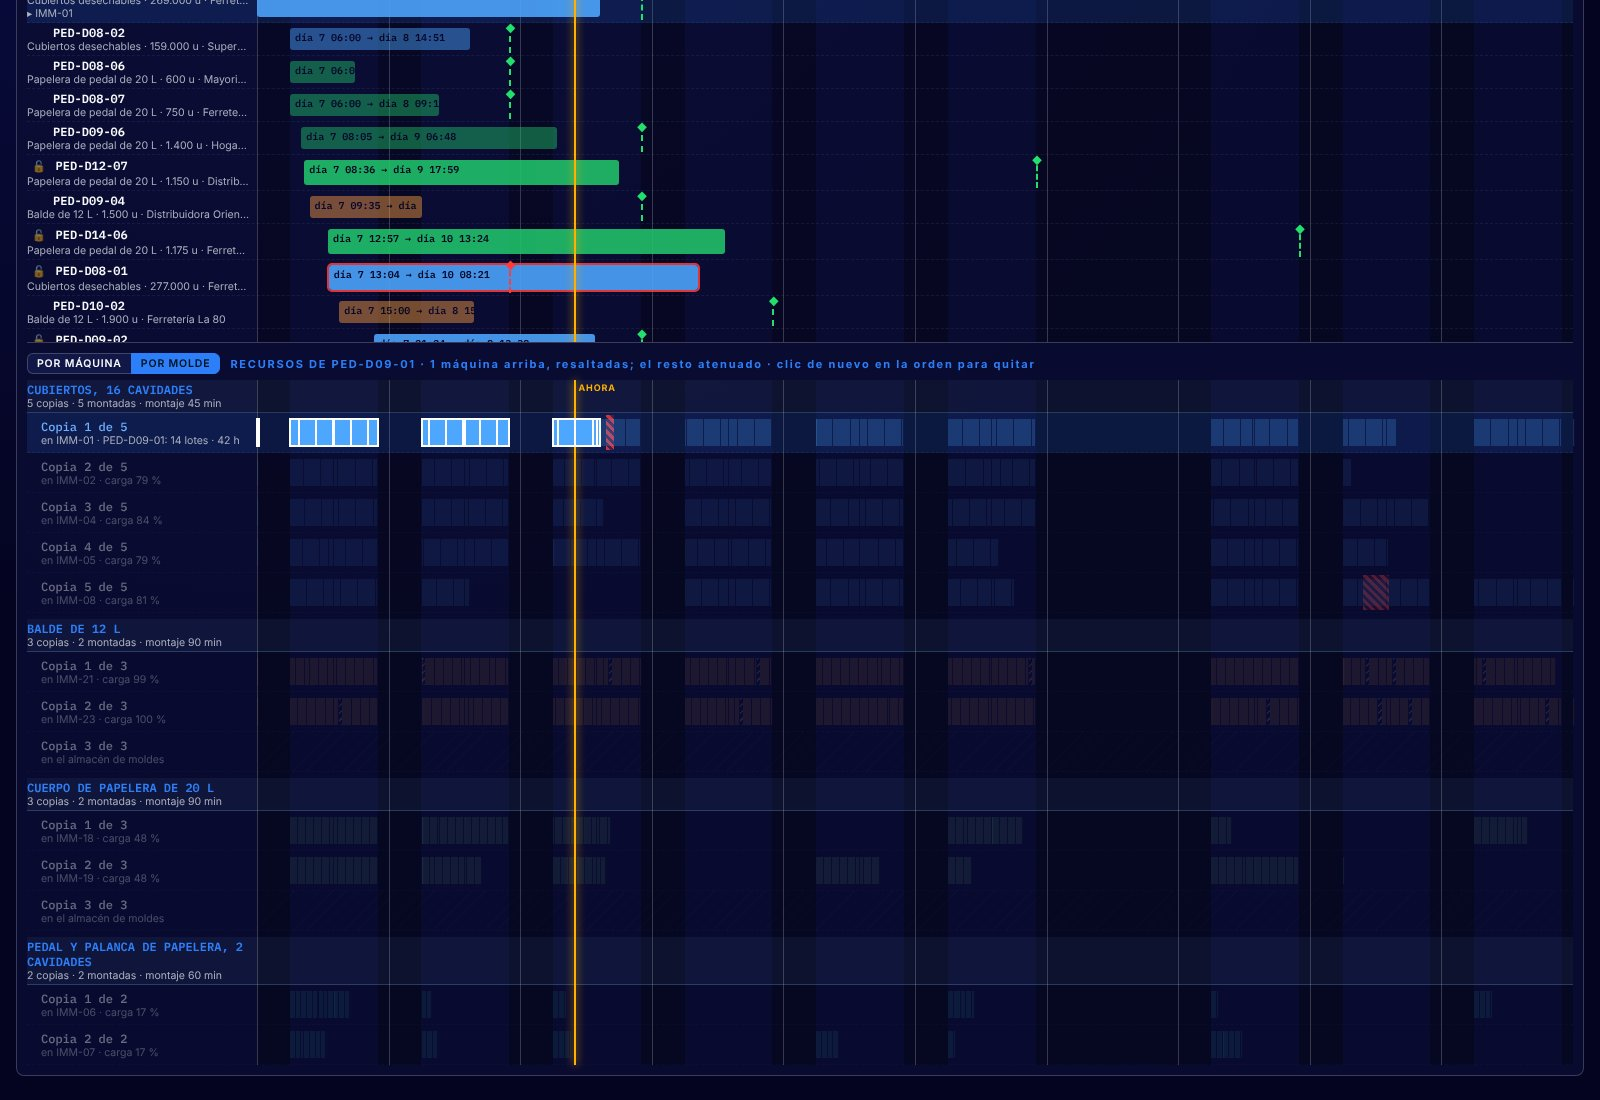
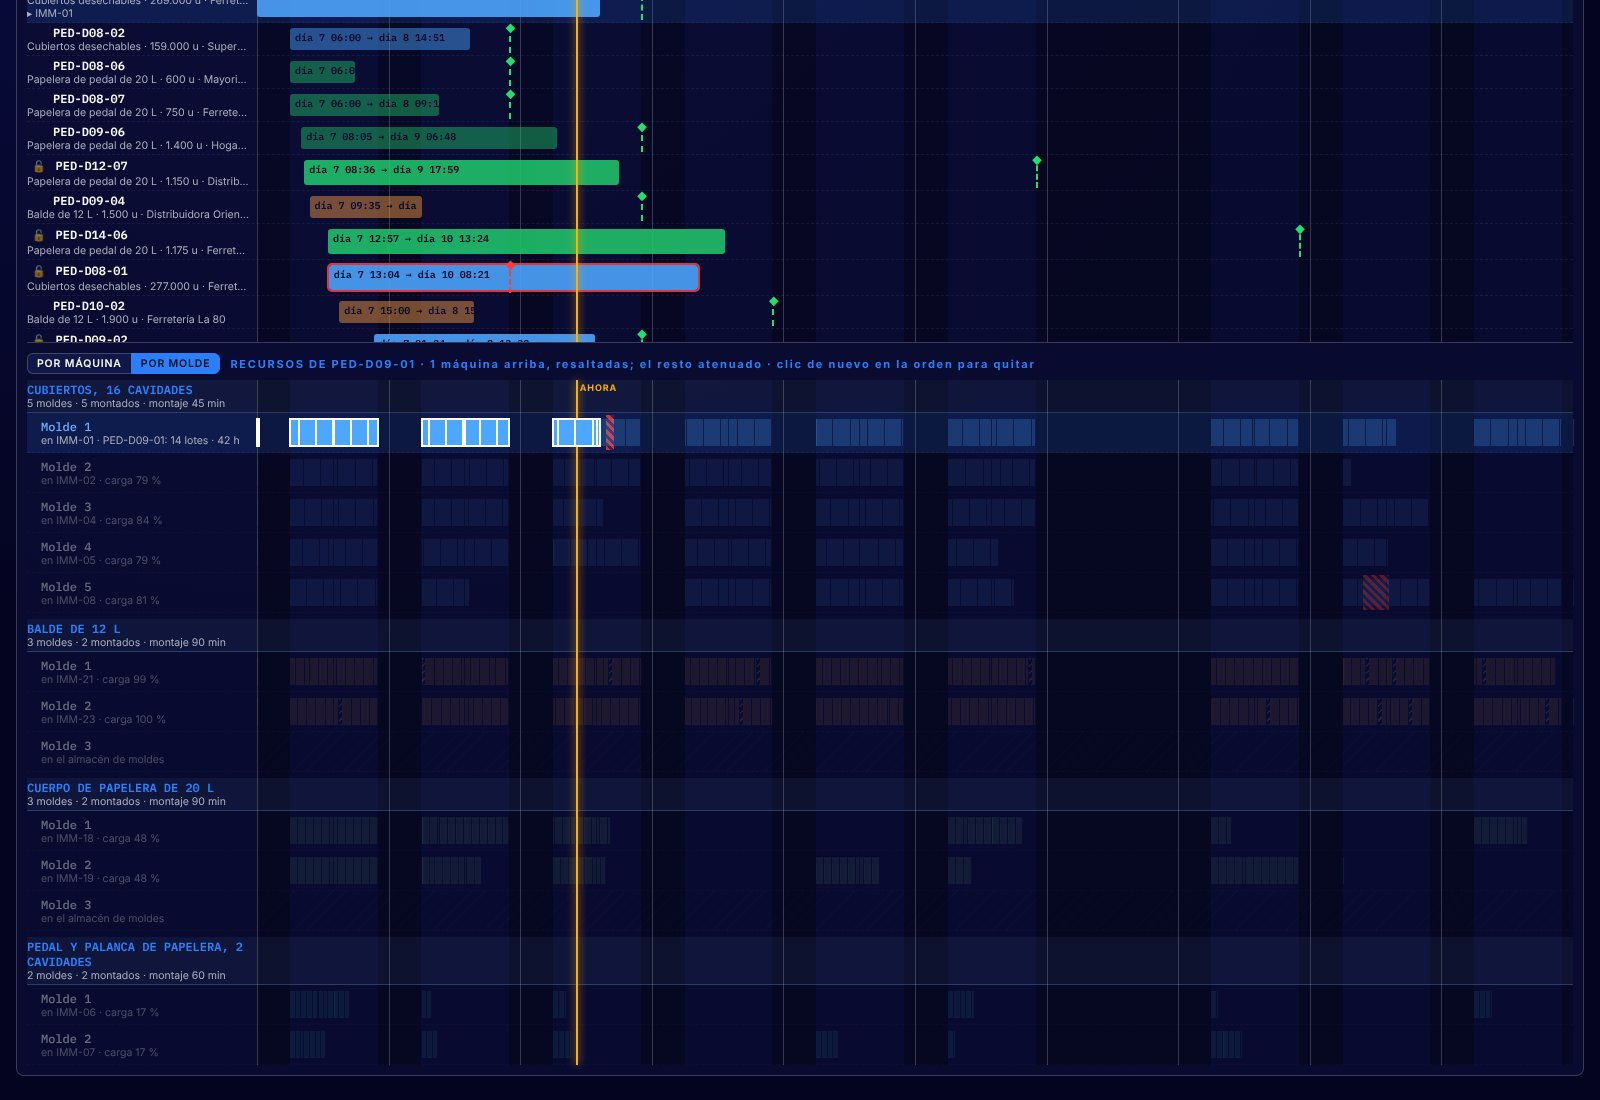
Gantt por molde: moldes numerados con numeración fija
Cada molde físico se llama Molde 1, Molde 2... (antes "copia N de M"). La
numeración no cambia al seleccionar una orden: primero las inyectoras del
montaje inicial y luego las que montó Fractal.

Claude-Session: https://claude.ai/code/session_01V6M9Lswh8d11LdRuHxe9CX

diff --git a/apps/gallery/src/aps-page.ts b/apps/gallery/src/aps-page.ts
@@ -435,7 +435,7 @@ function renderGantt(p: ProductionPlan): void {
       const detail = u ? `${info ? `${info} · ` : ""}${esc(selected!)}: ${u.lots} ${u.lots === 1 ? "lote" : "lotes"} · ${nf(u.h, 1)} h` : `${info ?? esc(machineProducts(m))} · carga ${load} %`;
       return `<div class="g-row res${cls}${rowCls}" data-machine="${esc(m)}"><div class="g-label"><b>${esc(title)}</b><small>${detail}</small></div><div class="g-track">${downs}${bars}</div></div>`;
   };
-  // Por molde: dónde está cada copia en este escenario (lo montado, con los cambios de Fractal) y el resto en el almacén.
+  // Por molde: dónde está cada molde físico (numerados) en este escenario (lo montado, con los cambios de Fractal) y el resto en el almacén.
   const where: Record<string, string> = { ...model.mounted };
   for (const [m, t] of Object.entries(p.molds ?? {})) t ? (where[m] = t) : delete where[m];
   const moldRows = model.molds
@@ -443,12 +443,13 @@ function renderGantt(p: ProductionPlan): void {
       const short = t.name.replace(/^Molde del? /i, "");
       const at = Object.keys(where)
         .filter((m) => where[m] === t.id)
-        .sort((a, b) => Number(usedBy.has(b)) - Number(usedBy.has(a)) || a.localeCompare(b));
+        // Numeración fija: primero las inyectoras del montaje inicial, luego las que Fractal montó.
+        .sort((a, b) => Number(model.mounted[a] !== t.id) - Number(model.mounted[b] !== t.id) || a.localeCompare(b));
       const n = Math.max(t.copies, at.length);
-      const head = `<div class="g-row res g-mold-head"><div class="g-label"><b>${esc(short.toUpperCase())}</b><small>${n} ${n === 1 ? "copia" : "copias"} · ${at.length} montada${at.length === 1 ? "" : "s"} · montaje ${nf(t.changeMin)} min</small></div><div class="g-track"></div></div>`;
+      const head = `<div class="g-row res g-mold-head"><div class="g-label"><b>${esc(short.toUpperCase())}</b><small>${n} ${n === 1 ? "molde" : "moldes"} · ${at.length} montado${at.length === 1 ? "" : "s"} · montaje ${nf(t.changeMin)} min</small></div><div class="g-track"></div></div>`;
       const copies = Array.from({ length: n }, (_, i) => {
         const m = at[i];
-        const title = `Copia ${i + 1} de ${n}`;
+        const title = `Molde ${i + 1}`;
         if (!m) return `<div class="g-row res g-copy g-mold-idle${selected ? " unused" : ""}"><div class="g-label"><b>${esc(title)}</b><small>en el almacén de moldes</small></div><div class="g-track"></div></div>`;
         const moved = p.molds?.[m] === t.id ? " (Fractal)" : "";
         return resourceRow(m, title, `en ${esc(machineLabel(m))}${moved}`, " g-copy");
@@ -477,7 +478,7 @@ function renderGantt(p: ProductionPlan): void {
       <div class="g-section-title">ÓRDENES DE PRODUCCIÓN</div>
       <div class="g-head"><div class="g-label"></div><div class="g-track">${head}</div></div>
       <div class="g-scroll"><div class="g-body g-orders"><div class="g-gridlayer"><div class="g-label"></div><div class="g-track">${grid}${nowLine}</div></div>${orderRows || '<p class="dim small">Sin órdenes en estos días.</p>'}</div></div>
-      <div class="g-section-title g-res-title"><span class="g-resview"><button id="g-by-machine"${resView === "maquina" ? ' class="on"' : ""}>POR MÁQUINA</button><button id="g-by-mold"${resView === "molde" ? ' class="on"' : ""} title="Cada copia de un molde es una fila: una copia solo está en una inyectora a la vez">POR MOLDE</button></span>${selected ? `RECURSOS DE ${esc(selected)} · ${usedBy.size} ${usedBy.size === 1 ? "máquina" : "máquinas"} arriba, resaltadas; el resto atenuado · clic de nuevo en la orden para quitar` : "RECURSOS · lotes de las órdenes de arriba · clic en una orden o en un lote para ver sus máquinas"}</div>
+      <div class="g-section-title g-res-title"><span class="g-resview"><button id="g-by-machine"${resView === "maquina" ? ' class="on"' : ""}>POR MÁQUINA</button><button id="g-by-mold"${resView === "molde" ? ' class="on"' : ""} title="Cada molde físico es una fila, numerado: un molde solo está en una inyectora a la vez">POR MOLDE</button></span>${selected ? `RECURSOS DE ${esc(selected)} · ${usedBy.size} ${usedBy.size === 1 ? "máquina" : "máquinas"} arriba, resaltadas; el resto atenuado · clic de nuevo en la orden para quitar` : "RECURSOS · lotes de las órdenes de arriba · clic en una orden o en un lote para ver sus máquinas"}</div>
       <div class="g-body g-res"><div class="g-gridlayer"><div class="g-label"></div><div class="g-track">${grid}${nowLine}</div></div>${resRows}</div>
     </div>`;
   // La primera vez se abre en la primera orden que aún no termina.

diff --git a/docs/aps-plasticos.md b/docs/aps-plasticos.md
@@ -71,8 +71,8 @@ no están montadas quedan en el almacén de moldes. El modelo del cosimulador re
 copias. Las copias de repuesto que Fractal puede montar salen de ahí (copias menos montadas), ya no de `aps.yaml`.
 
 En RECURSOS, el selector **POR MÁQUINA / POR MOLDE** cambia las filas: por molde, cada molde tiene un encabezado (copias,
-montadas, minutos de montaje) y una fila por copia con la inyectora donde está, su carga y sus lotes, o "en el almacén
-de moldes". Si una opción de Fractal monta o muda un molde, la copia aparece en su nueva inyectora con "(Fractal)". El
+montados, minutos de montaje) y una fila por molde físico, numerado (Molde 1, Molde 2...), con la inyectora donde está, su carga y sus lotes, o "en el almacén
+de moldes". Si una opción de Fractal monta o muda un molde, el molde aparece en su nueva inyectora con "(Fractal)". El
 arrastrar y soltar funciona igual en las dos vistas. Capturas en `docs/demo-plasticos/moldes-recursos/`.
 
 Hoy el cosimulador no mueve moldes: coloca cada producto en las inyectoras que ya tienen su molde. Que decida qué copia
